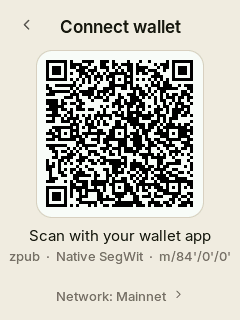
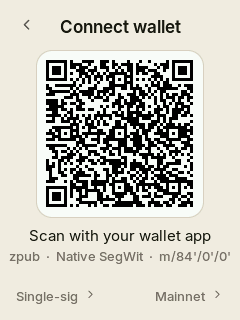
Connect wallet: export the BIP-48 multisig key
Connect wallet only showed the BIP-84 single-sig account, so a wallet app
had no way to get this seed's key for a standard multisig wallet. A new
Wallet type choice (Single-sig / Multisig) next to the network switches the
QR to [fingerprint/48h/0h/0h/2h]Zpub (Vpub and 48h/1h/0h/2h on testnet).
RAM only, like the network: single-sig on every boot.

The end-to-end multisig test now builds its 2-of-3 from that key.

Changed region(s): [[0.0583, 0.9062, 0.875, 0.9688], [0.9042, 0.9062, 0.9333, 0.9375]]

diff --git a/firmware/src/app/ui.cpp b/firmware/src/app/ui.cpp
@@ -630,12 +630,18 @@ static void build_export_xpub() {
     qr_card(scr, BAR + 2, &qr);
     lv_qrcode_update(qr, xpub, n);
 
+    bool ms = wallet_export_multisig();
+    static const char *const about[2][2] = {
+        {"zpub  \xC2\xB7  Native SegWit  \xC2\xB7  m/84'/0'/0'", "vpub  \xC2\xB7  Native SegWit  \xC2\xB7  m/84'/1'/0'"},
+        {"Zpub  \xC2\xB7  Multisig  \xC2\xB7  m/48'/0'/0'/2'", "Vpub  \xC2\xB7  Multisig  \xC2\xB7  m/48'/1'/0'/2'"},
+    };
     lv_obj_align(text(scr, "Scan with your wallet app", &inter_15, TEXT), LV_ALIGN_TOP_MID, 0, BAR + 2 + QR_CARD + 8);
-    lv_obj_align(text(scr, tn ? "vpub  \xC2\xB7  Native SegWit  \xC2\xB7  m/84'/1'/0'"
-                              : "zpub  \xC2\xB7  Native SegWit  \xC2\xB7  m/84'/0'/0'", &inter_13, tn ? AMBER : TEXT_3),
-                 LV_ALIGN_TOP_MID, 0, BAR + 2 + QR_CARD + 30);
-    lv_obj_align(quiet_link(scr, tn ? "Network: Testnet  " ICON_RIGHT : "Network: Mainnet  " ICON_RIGHT, go_cb, GO(UI_NETWORK)),
-                 LV_ALIGN_BOTTOM_MID, 0, -6);
+    lv_obj_align(text(scr, about[ms][tn], &inter_13, tn ? AMBER : TEXT_3), LV_ALIGN_TOP_MID, 0, BAR + 2 + QR_CARD + 30);
+    // Which key, and for which network: two quiet links, side by side like the wallet menu's.
+    lv_obj_align(quiet_link(scr, ms ? "Multisig  " ICON_RIGHT : "Single-sig  " ICON_RIGHT, go_cb, GO(UI_KEY_TYPE)),
+                 LV_ALIGN_BOTTOM_LEFT, M - 12, -6);
+    lv_obj_align(quiet_link(scr, tn ? "Testnet  " ICON_RIGHT : "Mainnet  " ICON_RIGHT, go_cb, GO(UI_NETWORK)),
+                 LV_ALIGN_BOTTOM_RIGHT, -(M - 12), -6);
     show(scr);
 }
 
@@ -646,23 +652,39 @@ static void network_cb(lv_event_t *e) {
     ui_goto(UI_EXPORT_XPUB);
 }
 
-static void build_network() {
+// A two-row choice for Connect wallet, with the current one checked.
+static void build_export_choice(const char *title, const char *a, const char *b, bool b_on, lv_event_cb_t cb,
+                                const char *note) {
     lv_obj_t *scr = screen();
-    topbar(scr, "Network", to_export_cb);
+    topbar(scr, title, to_export_cb);
     lv_obj_t *c = card(scr, CW, 2 * 62 + 1);
     lv_obj_set_style_pad_all(c, 0, 0);
     lv_obj_set_style_clip_corner(c, true, 0);
     lv_obj_align(c, LV_ALIGN_TOP_MID, 0, BAR + 8);
-    bool tn = wallet_testnet();
-    lv_obj_t *r1 = list_row(c, nullptr, "Mainnet", nullptr, network_cb, nullptr);
+    lv_obj_t *r1 = list_row(c, nullptr, a, nullptr, cb, nullptr);
     lv_obj_align(r1, LV_ALIGN_TOP_MID, 0, 0);
     divider(c, 62);
-    lv_obj_t *r2 = list_row(c, nullptr, "Testnet", nullptr, network_cb, (void *)1);
+    lv_obj_t *r2 = list_row(c, nullptr, b, nullptr, cb, (void *)1);
     lv_obj_align(r2, LV_ALIGN_TOP_MID, 0, 63);
-    lv_obj_align(text(tn ? r2 : r1, ICON_CHECK, &inter_17_semi, ACCENT), LV_ALIGN_RIGHT_MID, -16, 0);
-    lv_obj_align(para(scr, "Testnet also covers signet and Mutinynet.", &inter_13, TEXT_3),
-                 LV_ALIGN_TOP_MID, 0, BAR + 8 + 125 + 16);
+    lv_obj_align(text(b_on ? r2 : r1, ICON_CHECK, &inter_17_semi, ACCENT), LV_ALIGN_RIGHT_MID, -16, 0);
+    lv_obj_align(para(scr, note, &inter_13, TEXT_3), LV_ALIGN_TOP_MID, 0, BAR + 8 + 125 + 16);
     show(scr);
+}
+
+static void build_network() {
+    build_export_choice("Network", "Mainnet", "Testnet", wallet_testnet(), network_cb,
+                        "Testnet also covers signet and Mutinynet.");
+}
+
+static void key_type_cb(lv_event_t *e) {
+    wallet_set_export_multisig(lv_event_get_user_data(e) != nullptr);
+    ui_goto(UI_EXPORT_XPUB);
+}
+
+static void build_key_type() {
+    build_export_choice("Wallet type", "Single-sig", "Multisig", wallet_export_multisig(), key_type_cb,
+                        "Multisig: this seed's key for a wallet with several signers. "
+                        "Afterwards, show the wallet's descriptor to this device.");
 }
 
 static void wipe_cb(lv_event_t *) {
@@ -1909,6 +1931,7 @@ void ui_goto(UiScreen s) {
         case UI_VERIFY_RESULT: build_verify(); break;
         case UI_EXPORT_XPUB: build_export_xpub(); break;
         case UI_NETWORK: build_network(); break;
+        case UI_KEY_TYPE: build_key_type(); break;
         case UI_WIPE_CONFIRM: build_wipe_confirm(); break;
         case UI_PSBT_ERROR: build_psbt_error(); break;
         case UI_PSBT_OVERVIEW: build_psbt_overview(); break;

diff --git a/firmware/e2e/test_multisig.py b/firmware/e2e/test_multisig.py
@@ -6,6 +6,7 @@ transactions and addresses against it.
 All seeds here are public test seeds. Never real funds.
 """
 import pytest
+from embit.networks import NETWORKS
 
 from flows import address_on_screen, connect_wallet, load_by_words, review_and_sign, verify_address
 from hostwallet import Seed, Wallet, psbt_parts, ur_parts, ur_single
@@ -48,12 +49,12 @@ def scan_descriptor(dev, shown, wallet):
 
 
 def test_linked_key_to_broadcastable_transaction(dev):
-    """Set up a 2-of-3 around the key the signer exports, receive to it, and
-    spend from it with the signer and one cosigner."""
+    """Set up a 2-of-3 around the multisig key the signer exports, receive to
+    it, and spend from it with the signer and one cosigner."""
     loaded(dev)
-    fingerprint, _, key = connect_wallet(dev)   # all the wallet app ever gets from the signer
+    fingerprint, path, key = connect_wallet(dev, multisig=True)   # all the wallet app ever gets from the signer
+    assert (fingerprint, path, key) == (SIGNER.fingerprint, BIP48, SIGNER.key(BIP48))
     wallet = two_of_three(key)
-    assert fingerprint == SIGNER.fingerprint
 
     # A multisig transaction is refused until the signer knows the wallet.
     coins = [wallet.fund(0, 500_000), wallet.fund(1, 250_000)]
@@ -96,8 +97,30 @@ def test_linked_key_to_broadcastable_transaction(dev):
     assert "2 OF 3" in dev.text()
     result = verify_address(dev, wallet.address(5))
     assert "Address verified" in result and "RECEIVE #5" in result
-    result = verify_address(dev, two_of_three().address(5))   # same cosigners, another key of ours
+    result = verify_address(dev, two_of_three(SIGNER.key("84h/1h/0h")).address(5))   # same cosigners, another key of ours
     assert "Not from this seed" in result
+
+
+def test_connect_wallet_shows_either_key(dev):
+    """Single-sig and multisig keys, on both networks, as embit derives them
+    from the same words; switching back and forth doesn't mix them up."""
+    loaded(dev)
+    dev.tap("Connect wallet")
+    seen = {}
+    for kind, network in (("Single-sig", "Mainnet"), ("Multisig", "Mainnet"), ("Multisig", "Testnet"), ("Single-sig", "Testnet")):
+        for now, other in ((kind, "Multisig" if kind == "Single-sig" else "Single-sig"),
+                           (network, "Testnet" if network == "Mainnet" else "Mainnet")):
+            if other + "  {RIGHT}" in dev.texts():
+                dev.tap(other + "  {RIGHT}")
+                dev.tap(now)
+        seen[kind, network] = dev.read_qr()
+    for (kind, network), shown in seen.items():
+        net = NETWORKS["main" if network == "Mainnet" else "test"]
+        path = ("84h/%s/0h" if kind == "Single-sig" else "48h/%s/0h/2h") % ("0h" if network == "Mainnet" else "1h")
+        xpub = SIGNER.root.derive("m/" + path).to_public().to_base58(net["zpub" if kind == "Single-sig" else "Zpub"])
+        assert shown == "[%s/%s]%s" % (SIGNER.fingerprint, path, xpub)
+    assert seen["Multisig", "Mainnet"].split("]")[1].startswith("Zpub")
+    assert seen["Multisig", "Testnet"].split("]")[1].startswith("Vpub")
 
 
 SPELLINGS = {

diff --git a/firmware/src/app/wallet.cpp b/firmware/src/app/wallet.cpp
@@ -12,9 +12,12 @@ static int words;
 static SeedEntropy entropy;               // kept for the QR backup, wiped with the key
 static bool passphrase;                   // the root key was derived with one
 static bool testnet;
+static bool export_multisig;
 
 bool wallet_testnet() { return testnet; }
 void wallet_set_testnet(bool t) { testnet = t; }
+bool wallet_export_multisig() { return export_multisig; }
+void wallet_set_export_multisig(bool m) { export_multisig = m; }
 
 bool wallet_has_seed() { return loaded; }
 const struct ext_key *wallet_root() { return loaded ? &root : nullptr; }
@@ -102,21 +105,24 @@ size_t wallet_export_xpub(char *out, size_t cap) {
     wallet_fingerprint_hex(fp);
     const char *coin = testnet ? "1h" : "0h";
     const uint32_t H = BIP32_INITIAL_HARDENED_CHILD;
-    const uint32_t path[3] = {H | 84, H | (testnet ? 1u : 0u), H | 0};
+    // BIP-84 account 0, or BIP-48 account 0 with script type 2 (P2WSH).
+    const bool ms = export_multisig;
+    const uint32_t path[4] = {H | (ms ? 48u : 84u), H | (testnet ? 1u : 0u), H | 0, H | 2};
+    const size_t path_len = ms ? 4 : 3;
 
     struct ext_key acct;
     uint8_t ser[BIP32_SERIALIZED_LEN];
-    bool ok = bip32_key_from_parent_path(&root, path, 3, BIP32_FLAG_KEY_PRIVATE, &acct) == WALLY_OK &&
+    bool ok = bip32_key_from_parent_path(&root, path, path_len, BIP32_FLAG_KEY_PRIVATE, &acct) == WALLY_OK &&
               bip32_key_serialize(&acct, BIP32_FLAG_KEY_PUBLIC, ser, sizeof(ser)) == WALLY_OK;
     secure_zero(&acct, sizeof(acct));     // drop the account private key
     if (!ok) return 0;
 
-    // SLIP-132 version bytes for native segwit: zpub / vpub.
-    const uint32_t ver = testnet ? 0x045f1cf6 : 0x04b24746;
+    // SLIP-132 version bytes for native segwit: zpub / vpub, multisig Zpub / Vpub.
+    const uint32_t ver = ms ? (testnet ? 0x02575483 : 0x02aa7ed3) : (testnet ? 0x045f1cf6 : 0x04b24746);
     ser[0] = ver >> 24; ser[1] = ver >> 16; ser[2] = ver >> 8; ser[3] = ver;
     char *key = nullptr;
     if (wally_base58_from_bytes(ser, sizeof(ser), BASE58_FLAG_CHECKSUM, &key) != WALLY_OK) return 0;
-    size_t n = snprintf(out, cap, "[%s/84h/%s/0h]%s", fp, coin, key);
+    size_t n = snprintf(out, cap, ms ? "[%s/48h/%s/0h/2h]%s" : "[%s/84h/%s/0h]%s", fp, coin, key);
     wally_free_string(key);
     return n;
 }

diff --git a/firmware/test/test_wallet/test_main.cpp b/firmware/test/test_wallet/test_main.cpp
@@ -47,6 +47,30 @@ void test_vpub() {
         out);
 }
 
+// The key for a multisig wallet: BIP-48 account 0, script type 2 (P2WSH),
+// with SLIP-132's Zpub / Vpub. Expected values worked out by embit.
+void test_multisig_keys() {
+    TEST_ASSERT_TRUE(wallet_load(zero_entropy_12()));
+    TEST_ASSERT_FALSE(wallet_export_multisig());   // single-sig unless asked
+    wallet_set_export_multisig(true);
+    char out[200];
+    TEST_ASSERT_GREATER_THAN(0, wallet_export_xpub(out, sizeof(out)));
+    TEST_ASSERT_EQUAL_STRING(
+        "[73c5da0a/48h/0h/0h/2h]Zpub74Jru6aftwwHxCUCWEvP6DgrfFsdA4U6ZRtQ5i8qJpMcC39yZGv3egBhQfV3MS9pZtH5z8iV5qWkJsK6ESs6mSzt4qvGhzJxPeeVS2e1zUG",
+        out);
+    wallet_set_testnet(true);
+    size_t n = wallet_export_xpub(out, sizeof(out));
+    wallet_set_testnet(false);
+    wallet_set_export_multisig(false);
+    TEST_ASSERT_GREATER_THAN(0, n);
+    TEST_ASSERT_EQUAL_STRING(
+        "[73c5da0a/48h/1h/0h/2h]Vpub5n95dMZrDHj6SeBgJ1oz4Fae2N2eJNuWK3VTKDb2dzGpMFLUHLmtyDfen7AaQxwQ5mZnMyXdVrkEaoMLVTH8FmVBRVWPGFYWhmtDUGehGmq",
+        out);
+    // and back to the single-sig account
+    TEST_ASSERT_GREATER_THAN(0, wallet_export_xpub(out, sizeof(out)));
+    TEST_ASSERT_EQUAL_STRING_LEN("[73c5da0a/84h/0h/0h]zpub", out, 24);
+}
+
 void test_wipe() {
     TEST_ASSERT_TRUE(wallet_load(zero_entropy_12()));
     SeedEntropy e;
@@ -101,6 +125,7 @@ int main() {
     RUN_TEST(test_fingerprint);
     RUN_TEST(test_zpub);
     RUN_TEST(test_vpub);
+    RUN_TEST(test_multisig_keys);
     RUN_TEST(test_wipe);
     RUN_TEST(test_passphrase);
     return UNITY_END();

diff --git a/firmware/e2e/flows.py b/firmware/e2e/flows.py
@@ -34,13 +34,19 @@ def load_by_qr(dev, mnemonic, compact=False):
     assert dev.screen == "SEED_LOADED", dev.text()
 
 
-def connect_wallet(dev):
-    """Wallet menu -> Connect wallet on testnet. Returns the key the wallet
-    app reads from the signer's screen, and leaves the signer on its menu."""
+def connect_wallet(dev, multisig=False):
+    """Wallet menu -> Connect wallet on testnet, for a single-sig or a
+    multisig wallet. Returns the key the wallet app reads from the signer's
+    screen, and leaves the signer on its menu."""
     dev.tap("Connect wallet")
-    if "Network: Testnet" not in dev.text():
-        dev.tap("Network: Mainnet")
+    if "Testnet  {RIGHT}" not in dev.texts():
+        dev.tap("Mainnet  {RIGHT}")
         dev.tap("Testnet")
+    showing = "Multisig" if "Multisig  {RIGHT}" in dev.texts() else "Single-sig"
+    wanted = "Multisig" if multisig else "Single-sig"
+    if showing != wanted:
+        dev.tap(showing + "  {RIGHT}")
+        dev.tap(wanted)
     export = dev.read_qr()
     dev.back()
     return parse_key_export(export)

diff --git a/firmware/src/app/wallet.h b/firmware/src/app/wallet.h
@@ -38,7 +38,16 @@ bool wallet_entropy(SeedEntropy *out);
 bool wallet_testnet();
 void wallet_set_testnet(bool testnet);
 
-// Native segwit single-sig account, as SeedSigner's static export:
-// mainnet "[fingerprint/84h/0h/0h]zpub...", testnet "[fingerprint/84h/1h/0h]vpub...".
+// Which key Connect wallet shows: the single-sig account, or this seed's key
+// for a multisig wallet. RAM only, like the network: single-sig on every boot.
+bool wallet_export_multisig();
+void wallet_set_export_multisig(bool multisig);
+
+// The account key for a wallet app, as SeedSigner's static export (SLIP-132).
+// Native segwit single-sig (BIP-84):
+//   mainnet "[fingerprint/84h/0h/0h]zpub...", testnet "[fingerprint/84h/1h/0h]vpub...".
+// Native segwit multisig (BIP-48, script type 2), the key a wallet app puts
+// into a wsh(sortedmulti) wallet:
+//   mainnet "[fingerprint/48h/0h/0h/2h]Zpub...", testnet "[fingerprint/48h/1h/0h/2h]Vpub...".
 // Returns length written.
 size_t wallet_export_xpub(char *out, size_t cap);

diff --git a/firmware/e2e/hostwallet.py b/firmware/e2e/hostwallet.py
@@ -49,12 +49,13 @@ class Seed:
 
 
 def parse_key_export(text):
-    """The signer's Connect wallet QR: "[fingerprint/84h/1h/0h]vpub...".
+    """The signer's Connect wallet QR: "[fingerprint/84h/1h/0h]vpub...", or
+    "[fingerprint/48h/1h/0h/2h]Vpub..." for a multisig wallet.
     Returns (fingerprint, path, descriptor key with a plain tpub)."""
     m = re.fullmatch(r"\[([0-9a-f]{8})/([0-9h'/]+)\]([a-zA-Z0-9]+)", text)
     assert m, "not a key export: %r" % text
     fingerprint, path, xpub = m.groups()
-    tpub = bip32.HDKey.from_string(xpub).to_base58(NET["xpub"])   # vpub is SLIP-132 for the same key
+    tpub = bip32.HDKey.from_string(xpub).to_base58(NET["xpub"])   # vpub and Vpub are SLIP-132 spellings of the same key
     return fingerprint, path, "[%s/%s]%s" % (fingerprint, path, tpub)
 
 

diff --git a/firmware/src/app/ui.h b/firmware/src/app/ui.h
@@ -9,6 +9,7 @@
 //        with the passphrase's fingerprint
 //   Seed menu -> Sign transaction | Verify address | Connect wallet | Back up as QR | Wipe
 //   Connect wallet -> Network (Mainnet / Testnet), RAM only
+//   Connect wallet -> Wallet type (Single-sig / Multisig key), RAM only
 //   Scan transaction -> Review -> each output -> Swipe to sign -> Signed QR
 //   Verify address -> scan address QR -> searching -> verified / not from this seed
 //   Multisig: show the wallet's descriptor QR to the Sign or Verify scanner
@@ -31,6 +32,7 @@ enum UiScreen {
     UI_SCAN_PSBT,
     UI_EXPORT_XPUB,
     UI_NETWORK,          // network for Connect wallet
+    UI_KEY_TYPE,         // single-sig or multisig key for Connect wallet
     UI_WIPE_CONFIRM,
     UI_PSBT_ERROR,
     UI_PSBT_OVERVIEW,

diff --git a/firmware/src/sim/main.cpp b/firmware/src/sim/main.cpp
@@ -185,6 +185,10 @@ static int run_shots(const char *dir) {
     ui_goto(UI_NETWORK);      pump(300); save(dir, "5b_network");
     ui_goto(UI_EXPORT_XPUB);  pump(300); save(dir, "5c_export_vpub");
     wallet_set_testnet(false);
+    ui_goto(UI_KEY_TYPE);     pump(300); save(dir, "5d_key_type");
+    wallet_set_export_multisig(true);
+    ui_goto(UI_EXPORT_XPUB);  pump(300); save(dir, "5e_export_multisig");
+    wallet_set_export_multisig(false);
     ui_goto(UI_WIPE_CONFIRM); pump(300); save(dir, "6_wipe_confirm");
 
     // Transaction: SeedSigner's single-sig testnet vector and its seed.

diff --git a/firmware/README.md b/firmware/README.md
@@ -29,7 +29,10 @@ The seed lives in RAM only: "Wipe seed" or unplugging removes it.
    same static format SeedSigner exports, readable by Sparrow. "Network" switches it
    to testnet (`[fingerprint/84h/1h/0h]vpub…`), which also serves signet and
    Mutinynet. The choice is kept in RAM, so every boot starts on mainnet. Signing and
-   Verify address don't use it: they read the network from the PSBT or the address
+   Verify address don't use it: they read the network from the PSBT or the address.
+   "Single-sig" switches to this seed's key for a multisig wallet,
+   `[fingerprint/48h/0h/0h/2h]Zpub…` (BIP-48, native segwit; `48h/1h/0h/2h` and
+   `Vpub…` on testnet), to add as a cosigner in the wallet app. Also RAM only
 5. Verify address: scan a receive address (plain or `bitcoin:` URI) from your
    wallet app; the device checks the first 500 receive and 100 change
    addresses of this seed and says which one it is, or that it isn't yours;
@@ -98,6 +101,8 @@ Multisig is `wsh(sortedmulti(...))`, up to 15 keys, with the loaded seed as one
 cosigner. The device needs the wallet's output descriptor, because a PSBT alone
 can name any cosigner keys next to ours:
 
+- Connect wallet, set to Multisig, shows the key to add to the wallet in the
+  wallet app. The device only needs the finished wallet's descriptor
 - Show the descriptor QR to the Sign transaction or Verify address scanner: as
   plain text, as a `crypto-output` UR (BCR-2020-010, sortedmulti with HD keys),
   or as text in a `bytes` UR. `/<0;1>/*`, `/{0,1}/*` and `/0/*` are all read as
@@ -147,6 +152,7 @@ pio test -e test
 - SeedQR decoding: the vectors in SeedSigner's SeedQR spec
 - QR scanning: the pictures in `sim/samples`, in a frame the size of the board camera's (240x180)
 - Key derivation: the BIP84 test vector (fingerprint `73c5da0a`, zpub, testnet vpub),
+  the same seed's BIP-48 multisig keys (Zpub, testnet Vpub) worked out by embit,
   and the BIP39 vector with passphrase `TREZOR` (root key, fingerprint `b4e3f5ed`),
   removed again and wiped with the seed
 - UR: SeedSigner's 29-part `crypto-psbt` vector, plus an encode/decode round trip
@@ -188,7 +194,8 @@ before finalizing the transaction. Coins are made up; nothing is broadcast.
   change reviewed and signed; SeedQR Standard and Compact; the QR card check;
   an animated PSBT joined mid-cycle (fountain parts only) and a base64 frame;
   another seed's transaction, another wallet's address, and fake change
-- Multisig: a 2-of-3 around the linked key, refused until its descriptor is
+- Multisig: Connect wallet's four keys (single-sig and multisig, mainnet and
+  testnet) against embit; a 2-of-3 around the linked multisig key, refused until its descriptor is
   scanned and confirmed, then signed and finalized with a cosigner; every
   spelling of the descriptor at both scanners; a 3-of-5 after a cosigner has
   signed; wallets the seed isn't in, a forged fingerprint, `multi`, a wrong
